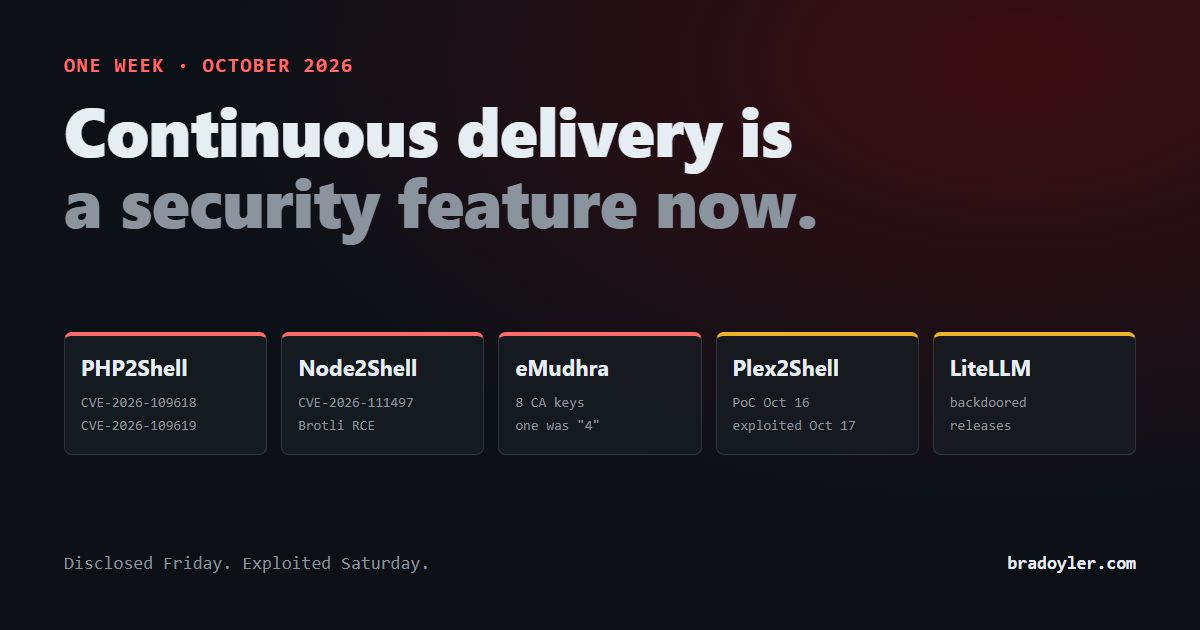
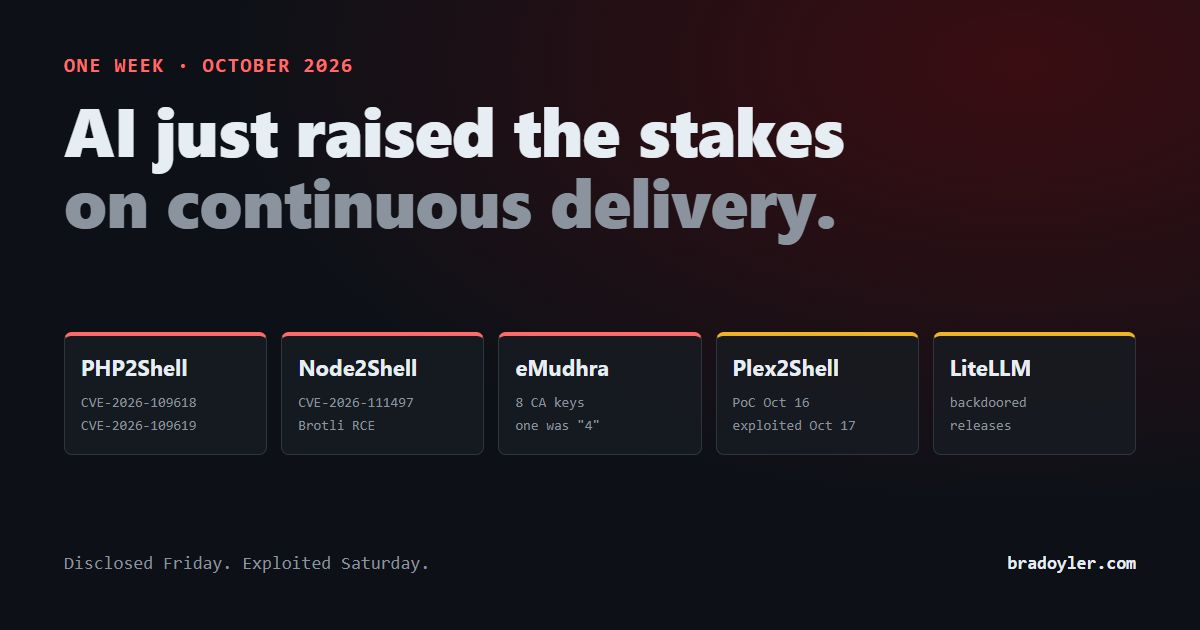
change title

Changed region(s): [[0.0308, 0.1508, 0.7092, 0.3921]]

diff --git a/docs/ai/continuous-delivery-is-a-security-feature/index.html b/docs/ai/continuous-delivery-is-a-security-feature/index.html
@@ -3,18 +3,18 @@
   <head>
     <meta charset="UTF-8" />
     <meta name="viewport" content="width=device-width, initial-scale=1.0" />
-    <title>Continuous Delivery Is a Security Feature Now - Brad Oyler</title>
+    <title>AI Just Raised the Stakes on Continuous Delivery - Brad Oyler</title>
     <meta name="description" content="PHP2Shell, Node2Shell, eMudhra, Plex2Shell, and a backdoored LiteLLM all landed within days of each other. AI is shrinking the time from disclosure to exploit, which makes the ability to ship a fix the same day more valuable than ever." />
     <link rel="canonical" href="https://www.bradoyler.com/ai/continuous-delivery-is-a-security-feature/">
     <meta property="og:site_name" content="{ Brad Oyler }" />
     <meta property="og:description" content="PHP2Shell, Node2Shell, eMudhra, Plex2Shell, and a backdoored LiteLLM all landed within days of each other. AI is shrinking the time from disclosure to exploit, which makes the ability to ship a fix the same day more valuable than ever." />
-    <meta property="og:title" content="Continuous Delivery Is a Security Feature Now - Brad Oyler" />
+    <meta property="og:title" content="AI Just Raised the Stakes on Continuous Delivery - Brad Oyler" />
     <meta property="og:url" content="https://www.bradoyler.com/ai/continuous-delivery-is-a-security-feature/" />
     <meta property="og:type" content="article" />
     <meta property="og:image" content="https://www.bradoyler.com/assets/images/continuous-delivery-social.jpg"/>
     <meta name="twitter:card" content="summary_large_image" />
     <meta name="twitter:site" content="@bradoyler" />
-    <meta name="twitter:title" content="Continuous Delivery Is a Security Feature Now - Brad Oyler" />
+    <meta name="twitter:title" content="AI Just Raised the Stakes on Continuous Delivery - Brad Oyler" />
     <meta name="twitter:description" content="PHP2Shell, Node2Shell, eMudhra, Plex2Shell, and a backdoored LiteLLM all landed within days of each other. AI is shrinking the time from disclosure to exploit, which makes the ability to ship a fix the same day more valuable than ever." />
     <meta name="twitter:creator" content="@bradoyler" />
     <meta name="twitter:domain" content="https://www.bradoyler.com" />
@@ -91,7 +91,7 @@
         
         <header class="mb-4 border-b border-gray-100 dark:border-gray-700 pb-4">
           <h1 class="text-4xl md:text-5xl font-bold leading-tight mb-4">
-            Continuous Delivery Is a Security Feature Now
+            AI Just Raised the Stakes on Continuous Delivery
           </h1>
           <div
             class="flex flex-wrap items-center gap-4 text-sm text-gray-600 dark:text-gray-400"
@@ -127,7 +127,7 @@
         >
           <p><img src="/assets/images/continuous-delivery-social.jpg" alt="PHP2Shell, Node2Shell, eMudhra, Plex2Shell, and LiteLLM: one week in October 2026"></p>
 <p>On October 21, TechCrunch ran a headline that pretty much summed up my week: <a href="https://techcrunch.com/2026/10/21/the-internet-is-having-a-very-bad-cybersecurity-day/">The internet is having a very bad cybersecurity day</a>. It wasn't really one day. It was a pile-up of critical issues landing within about a week of each other, across almost every layer of the stack that most companies quietly depend on.</p>
-<p>If you run anything on the internet, you probably spent part of this week reading advisories, checking versions, and asking teams &quot;are we on that?&quot; I did too. Once the dust settled a bit, what stuck with me was not any single bug. It was the speed, how often AI showed up in the story, and a slightly unexpected conclusion: the most useful security tool most teams have might be their deploy pipeline.</p>
+<p>If you run anything on the internet, you probably spent part of this week reading advisories, checking versions, and asking teams &quot;are we on that?&quot; I did too. Once the dust settled a bit, what stuck with me was not any single bug. It was the speed, how often AI showed up in the story, and an old idea that suddenly feels urgent: the most useful security tool most teams have might be their deploy pipeline.</p>
 <h2>The week in one list</h2>
 <ul>
 <li><strong>PHP2Shell.</strong> Two critical PHP core flaws (CVE-2026-109618 and CVE-2026-109619), both rated 9.2, allowing unauthenticated remote code execution. Fixes shipped October 21. TechCrunch reported the flaws were found by AI, and that some government sites went offline after the NSA told organizations to update PHP or take systems offline until they could. <a href="https://watchtowr.com/intelligence/php-remote-code-execution-php2shell/">watchTowr</a> reports exploitation in the wild. PHP 5.4 through 7.3 is end-of-life and gets no fix from the PHP project.</li>
@@ -162,6 +162,7 @@
 <p>That changes how I think about a patch window. A two-week rollout used to feel responsible. Now it feels like two weeks of standing in a hallway full of doorknob-turners that never get tired, never take weekends, and don't care that your company is small or boring. You don't have to be a target. You just have to be on the list of IPs running the vulnerable version.</p>
 <h2>The twist: deploy speed is now security</h2>
 <p>Here's where I landed. If the attacker's side runs at machine speed, the question that matters most isn't &quot;do we know about the bug?&quot; Everyone knows within hours. It's &quot;how fast can we safely ship the fix?&quot;</p>
+<p>None of this is a new idea. The DevSecOps crowd has argued for years that fast, reliable delivery is a security capability. What's changed is the clock. When an AI agent can turn an advisory into a working exploit over a weekend, &quot;we'll get to it in the next release&quot; stops being a scheduling decision and becomes a risk decision.</p>
 <p>That makes continuous delivery a security feature, not just a productivity one. A team that can bump a Node or PHP version, run its tests, and roll it to production in an afternoon closes the window before most of the scanning starts. A team with a monthly release train, a manual change board, or a deploy that only one person knows how to run leaves that window open for weeks, and there's no clever security product that makes up for it.</p>
 <p>The capabilities that matter here are the boring ones the DevOps crowd has been pushing for a decade:</p>
 <ul>
@@ -171,6 +172,7 @@
 <li><strong>Easy rollback</strong>, so moving fast doesn't mean betting the business on every patch.</li>
 </ul>
 <p>For years, the pitch for all of that was speed of feature delivery. This week made a different case. The same pipeline that ships features fast is the one that ships fixes fast, and fixes are now on a clock you don't control.</p>
+<p>If this sounds like DevSecOps, it is, just with the emphasis flipped. A lot of DevSecOps in practice has meant adding gates: more scanners, more checks, more ways for a build to fail. Some of that is worth it. But when the threat is a two-day vuln, every gate that slows down a patch is part of your exposure. The security value of a pipeline isn't how many things it can block. It's how quickly it can get a fix to production when it counts.</p>
 <h2>The view from my own repos</h2>
 <p>I maintain a couple of small open source Node libraries, <a href="https://github.com/d3-node/d3-node">d3-node</a> and <a href="https://github.com/bradoyler/route-cache">route-cache</a>. So while writing this, I checked my own setup instead of just pointing at everyone else's. Here's what I found, and what I fixed:</p>
 <ul>
@@ -226,7 +228,7 @@
    Follow @bradoyler on X
   </a>
  ||
-  <a href="https://x.com/intent/post?text=Continuous%20Delivery%20Is%20a%20Security%20Feature%20Now&url=https%3A%2F%2Fwww.bradoyler.com%2Fai%2Fcontinuous-delivery-is-a-security-feature%2F"
+  <a href="https://x.com/intent/post?text=AI%20Just%20Raised%20the%20Stakes%20on%20Continuous%20Delivery&url=https%3A%2F%2Fwww.bradoyler.com%2Fai%2Fcontinuous-delivery-is-a-security-feature%2F"
      target="_blank" rel="noopener" class="hover:text-blue-600 dark:hover:text-blue-400">
     Share this
   </a>

diff --git a/docs/ai/index.html b/docs/ai/index.html
@@ -97,7 +97,7 @@
           <a href="/ai/continuous-delivery-is-a-security-feature/" class="block overflow-hidden h-40">
             <img
               src="/assets/images/continuous-delivery-social.jpg"
-              alt="Featured image for Continuous Delivery Is a Security Feature Now"
+              alt="Featured image for AI Just Raised the Stakes on Continuous Delivery"
               class="w-full h-full object-cover transition-transform duration-300 hover:scale-[1.03]"
             />
           </a>
@@ -107,7 +107,7 @@
               <a
                 href="/ai/continuous-delivery-is-a-security-feature/"
                 class="hover:text-blue-600 dark:hover:text-blue-400"
-                >Continuous Delivery Is a Security Feature Now</a
+                >AI Just Raised the Stakes on Continuous Delivery</a
               >
             </h2>
 

diff --git a/docs/blog/index.html b/docs/blog/index.html
@@ -97,7 +97,7 @@
           <a href="/ai/continuous-delivery-is-a-security-feature/" class="block overflow-hidden h-40">
             <img
               src="/assets/images/continuous-delivery-social.jpg"
-              alt="Featured image for Continuous Delivery Is a Security Feature Now"
+              alt="Featured image for AI Just Raised the Stakes on Continuous Delivery"
               class="w-full h-full object-cover transition-transform duration-300 hover:scale-[1.03]"
             />
           </a>
@@ -107,7 +107,7 @@
               <a
                 href="/ai/continuous-delivery-is-a-security-feature/"
                 class="hover:text-blue-600 dark:hover:text-blue-400"
-                >Continuous Delivery Is a Security Feature Now</a
+                >AI Just Raised the Stakes on Continuous Delivery</a
               >
             </h2>
 

diff --git a/docs/index.html b/docs/index.html
@@ -104,7 +104,7 @@
               
               <img
                 src="/assets/images/continuous-delivery-social.jpg"
-                alt="Featured image for Continuous Delivery Is a Security Feature Now"
+                alt="Featured image for AI Just Raised the Stakes on Continuous Delivery"
                 class="w-full h-40 object-cover transition-transform duration-300 hover:scale-[1.03]"
               />
             </a>
@@ -114,7 +114,7 @@
               <a
                 href="/ai/continuous-delivery-is-a-security-feature/"
                 class="hover:text-blue-600 dark:hover:text-blue-400"
-                >Continuous Delivery Is a Security Feature Now</a
+                >AI Just Raised the Stakes on Continuous Delivery</a
               >
             </h3>
 

diff --git a/docs/ai/airplane-mode-revisited/index.html b/docs/ai/airplane-mode-revisited/index.html
@@ -197,7 +197,7 @@
               href="/ai/continuous-delivery-is-a-security-feature/"
               class="block text-blue-600 dark:text-blue-400 hover:underline font-medium"
             >
-              Continuous Delivery Is a Security Feature Now
+              AI Just Raised the Stakes on Continuous Delivery
             </a>
             
           </div>

diff --git a/src/ai/continuous-delivery-is-a-security-feature.md b/src/ai/continuous-delivery-is-a-security-feature.md
@@ -1,5 +1,5 @@
 ---
-title: "Continuous Delivery Is a Security Feature Now"
+title: "AI Just Raised the Stakes on Continuous Delivery"
 date: 2026-10-23
 modified: null
 description: "PHP2Shell, Node2Shell, eMudhra, Plex2Shell, and a backdoored LiteLLM all landed within days of each other. AI is shrinking the time from disclosure to exploit, which makes the ability to ship a fix the same day more valuable than ever."
@@ -12,7 +12,7 @@ tags: ['blog', 'ai']
 
 On October 21, TechCrunch ran a headline that pretty much summed up my week: [The internet is having a very bad cybersecurity day](https://techcrunch.com/2026/10/21/the-internet-is-having-a-very-bad-cybersecurity-day/). It wasn't really one day. It was a pile-up of critical issues landing within about a week of each other, across almost every layer of the stack that most companies quietly depend on.
 
-If you run anything on the internet, you probably spent part of this week reading advisories, checking versions, and asking teams "are we on that?" I did too. Once the dust settled a bit, what stuck with me was not any single bug. It was the speed, how often AI showed up in the story, and a slightly unexpected conclusion: the most useful security tool most teams have might be their deploy pipeline.
+If you run anything on the internet, you probably spent part of this week reading advisories, checking versions, and asking teams "are we on that?" I did too. Once the dust settled a bit, what stuck with me was not any single bug. It was the speed, how often AI showed up in the story, and an old idea that suddenly feels urgent: the most useful security tool most teams have might be their deploy pipeline.
 
 ## The week in one list
 
@@ -60,6 +60,8 @@ That changes how I think about a patch window. A two-week rollout used to feel r
 
 Here's where I landed. If the attacker's side runs at machine speed, the question that matters most isn't "do we know about the bug?" Everyone knows within hours. It's "how fast can we safely ship the fix?"
 
+None of this is a new idea. The DevSecOps crowd has argued for years that fast, reliable delivery is a security capability. What's changed is the clock. When an AI agent can turn an advisory into a working exploit over a weekend, "we'll get to it in the next release" stops being a scheduling decision and becomes a risk decision.
+
 That makes continuous delivery a security feature, not just a productivity one. A team that can bump a Node or PHP version, run its tests, and roll it to production in an afternoon closes the window before most of the scanning starts. A team with a monthly release train, a manual change board, or a deploy that only one person knows how to run leaves that window open for weeks, and there's no clever security product that makes up for it.
 
 The capabilities that matter here are the boring ones the DevOps crowd has been pushing for a decade:
@@ -70,6 +72,8 @@ The capabilities that matter here are the boring ones the DevOps crowd has been 
 - **Easy rollback**, so moving fast doesn't mean betting the business on every patch.
 
 For years, the pitch for all of that was speed of feature delivery. This week made a different case. The same pipeline that ships features fast is the one that ships fixes fast, and fixes are now on a clock you don't control.
+
+If this sounds like DevSecOps, it is, just with the emphasis flipped. A lot of DevSecOps in practice has meant adding gates: more scanners, more checks, more ways for a build to fail. Some of that is worth it. But when the threat is a two-day vuln, every gate that slows down a patch is part of your exposure. The security value of a pipeline isn't how many things it can block. It's how quickly it can get a fix to production when it counts.
 
 ## The view from my own repos
 
